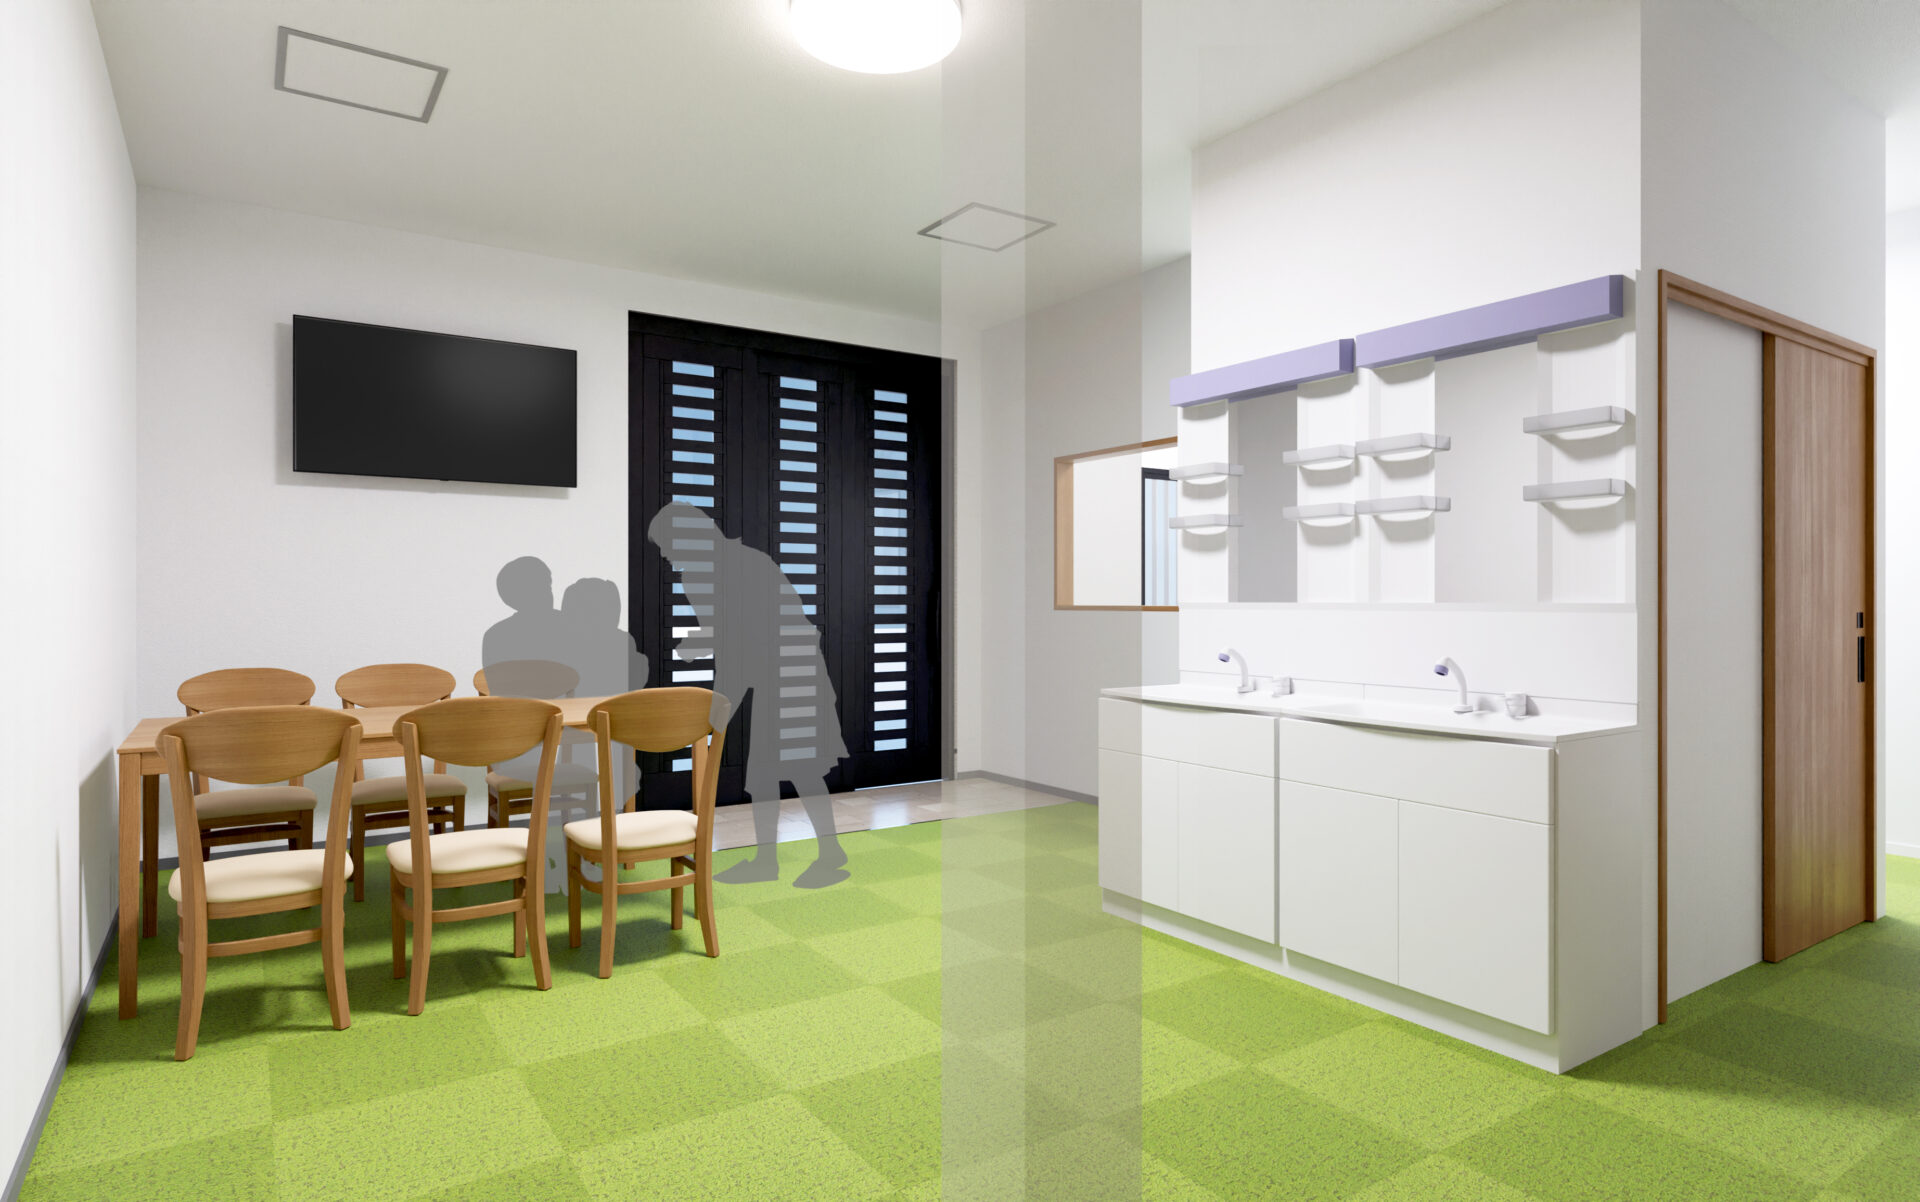
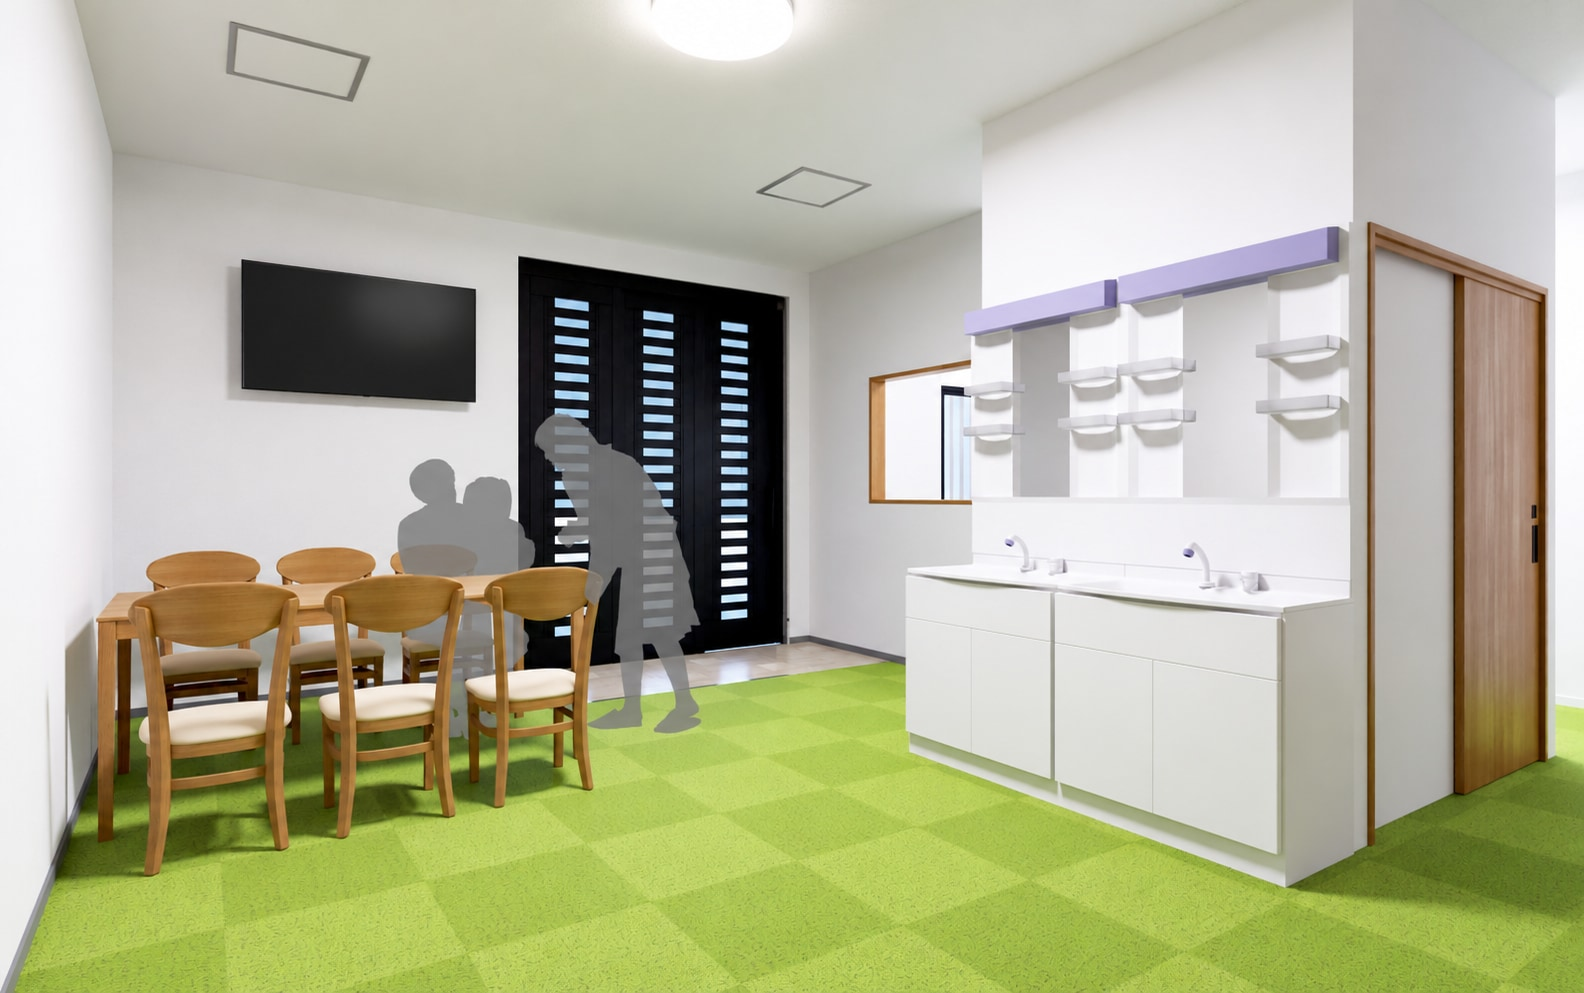
トップ写真差し替えとスライド速度調整

diff --git a/assets/css/style.css b/assets/css/style.css
@@ -148,7 +148,7 @@ a {
   display: flex;
   width: max-content;
   height: 100%;
-  animation: hero-marquee 32s linear infinite;
+  animation: hero-marquee 64s linear infinite;
   will-change: transform;
 }
 .hero-panel {
@@ -177,7 +177,7 @@ a {
 .hero-motion:focus-visible { outline: 3px solid #fff; outline-offset: 3px; }
 @media (max-width: 767px) {
   .hero { --hero-height: clamp(500px, 76svh, 610px); }
-  .hero-track { animation-duration: 34s; }
+  .hero-track { animation-duration: 68s; }
   .hero-panel { max-width: 118vw; }
   .hero-panel img { object-position: 62% 45%; }
   .hero-scrim { background: linear-gradient(90deg, rgba(20,29,30,.4), rgba(20,29,30,.1)), linear-gradient(0deg, rgba(20,29,30,.75), transparent 90%); }
